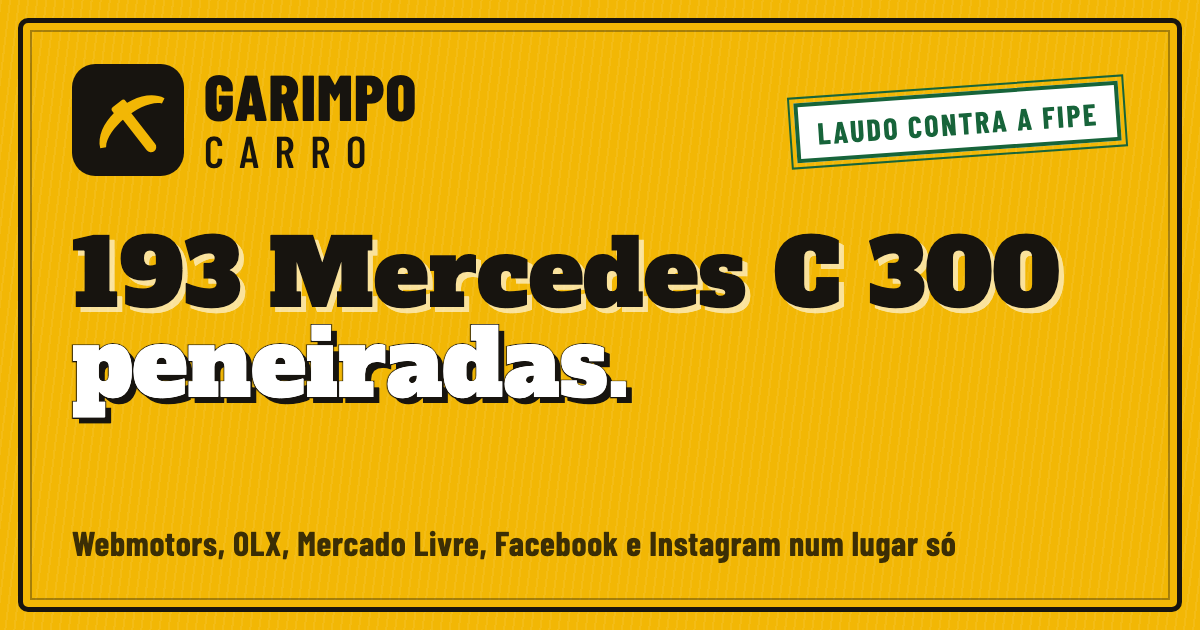
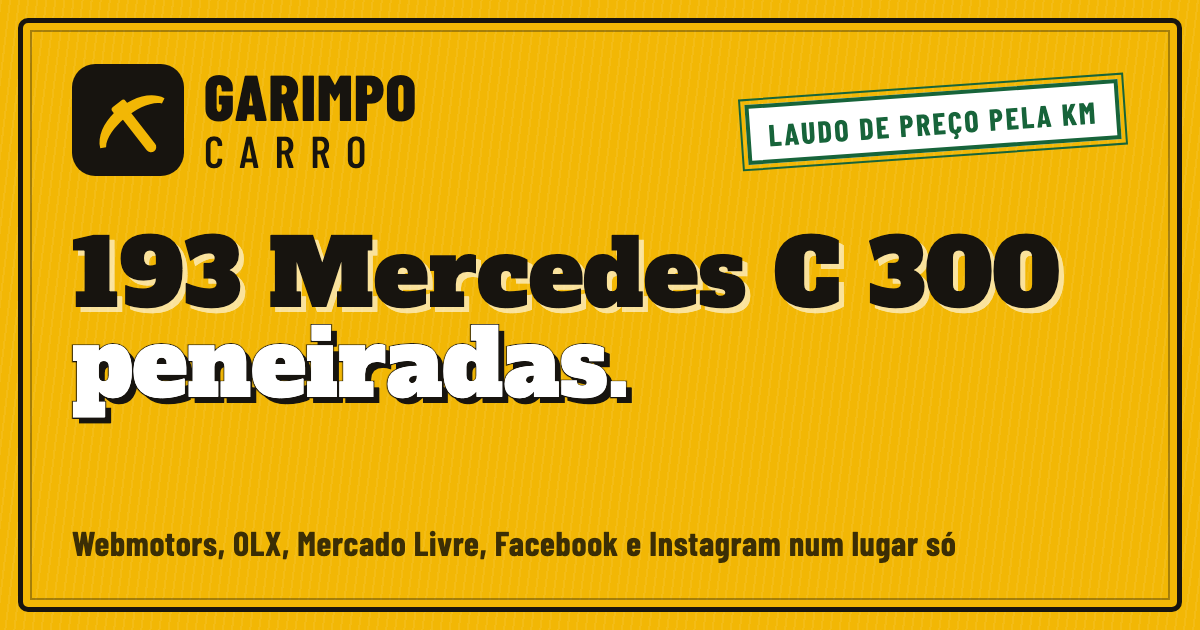
Laudo de mercado no lugar do carimbo FIPE: cada carro comparado com os do mesmo ano pela km (reta preço × km e variação normal medidas nos anúncios limpos); tabela do mercado medido no rodapé

Changed region(s): [[0.6167, 0.1206, 0.9558, 0.2714]]

diff --git a/site/app.js b/site/app.js
@@ -6,7 +6,6 @@
   const milKm = (v) => (v >= 1000 ? Math.round(v / 1000) + ' mil' : v) + ' km';
   const semAcento = (s) => String(s || '').normalize('NFD').replace(/[̀-ͯ]/g, '').toLowerCase();
   const dataBR = (iso) => iso.slice(8, 10) + '/' + iso.slice(5, 7);
-  const sobreFipe = (dif) => (dif == null ? null : Math.round(Math.abs(dif) * 100));
 
   let D = [], ULT = '';
   const PADRAO = { semLeilao: true, bl: 'todos', ano: [], uf: [], cor: [], banco: [], preco: 460000, km: 80000, cid: '', ordem: 'fipe' };
@@ -57,11 +56,13 @@
   }
   const ORDENS = {
     // preço suspeito não é o "melhor negócio": vai depois dos limpos, ainda visível
-    fipe: (a, b) => suspeito(a) - suspeito(b) || (a.dif ?? 9) - (b.dif ?? 9),
-    recentes: (a, b) => b.dt.localeCompare(a.dt) || (a.dif ?? 9) - (b.dif ?? 9),
+    // "melhor negócio" = mais abaixo do esperado para a km; os de "desconfie" vão para o fim,
+    // blindados (sem comparação justa) logo antes deles
+    fipe: (a, b) => grupo(a) - grupo(b) || margem(a) - margem(b),
+    recentes: (a, b) => b.dt.localeCompare(a.dt) || margem(a) - margem(b),
     preco: (a, b) => (a.preco || 9e9) - (b.preco || 9e9),
     km: (a, b) => (a.km || 9e9) - (b.km || 9e9),
-    ano: (a, b) => b.ano - a.ano || (a.dif ?? 9) - (b.dif ?? 9),
+    ano: (a, b) => b.ano - a.ano || margem(a) - margem(b),
   };
 
   // ── Desenho ──
@@ -101,12 +102,10 @@
 
     const pr = $('.preco', li);
     if (c.preco) pr.textContent = reais(c.preco); else { pr.textContent = 'Preço não informado'; pr.classList.add('sem'); }
-    const ca = $('.carimbo', li), p = sobreFipe(c.dif);
-    if (p == null) ca.classList.add('vazio');
-    else if (c.dif <= -0.02 && suspeito(c)) { ca.classList.add('suspeito'); ca.innerHTML = `${p}% abaixo · desconfie<small>FIPE ${c.ano}: ${reais(c.fipe)}</small>`; }
-    else if (c.dif <= -0.02) { ca.classList.add('abaixo'); ca.innerHTML = `${p}% abaixo da FIPE<small>FIPE ${c.ano}: ${reais(c.fipe)}</small>`; }
-    else if (c.dif >= 0.02) { ca.classList.add('acima'); ca.innerHTML = `${p}% acima da FIPE<small>FIPE ${c.ano}: ${reais(c.fipe)}</small>`; }
-    else { ca.classList.add('na'); ca.innerHTML = `Na FIPE<small>FIPE ${c.ano}: ${reais(c.fipe)}</small>`; }
+    const ca = $('.carimbo', li);
+    const t = textoLaudo(c);
+    if (!t) ca.classList.add('vazio');
+    else { ca.classList.add(t.k); ca.innerHTML = `${t.titulo}<small>${t.ref}</small>`; }
 
     const sites = $('.sites', li);
     const comp = $('.compartilha', li); comp.dataset.id = c.id;
@@ -128,7 +127,20 @@
     return li;
   }
   // "preço bem abaixo da média" é alerta: o carimbo não pode elogiar o mesmo carro
-  const suspeito = (c) => c.al.some((a) => a.k === 'risco' && /abaixo da m/i.test(a.t));
+  // ── Laudo: o carro contra os iguais a ele (mesmo ano, mesma km), calculado em ferramentas/gerar.py ──
+  const margem = (c) => (c.laudo && c.laudo.m != null ? c.laudo.m : 9);
+  const grupo = (c) => (!c.laudo ? 2 : c.laudo.k === 'desconfie' ? 3 : c.laudo.k === 'blindado' ? 1 : 0);
+  function textoLaudo(c) {
+    const L = c.laudo; if (!L) return null;
+    const fipe = c.fipe ? `FIPE ${c.ano}: ${reais(c.fipe)}` : '';
+    if (L.k === 'blindado') return { k: 'na', titulo: 'Blindado · sem comparação', curto: 'blindado', ref: fipe + ' (sem blindagem)' };
+    const p = Math.round(Math.abs(L.m) * 100);
+    const ref = `Esperado ${L.semkm ? '(km não informada)' : 'para a km'}: ${reais(L.esp)}` + (fipe ? ` · ${fipe}` : '');
+    if (L.k === 'desconfie') return { k: 'suspeito', titulo: `${p}% abaixo · desconfie`, curto: `${p}% abaixo do mercado (bom demais: desconfie)`, ref };
+    if (L.k === 'abaixo') return { k: 'abaixo', titulo: `${p}% abaixo do mercado`, curto: `${p}% abaixo do mercado`, ref };
+    if (L.k === 'acima') return { k: 'acima', titulo: `${p}% acima do mercado`, curto: `${p}% acima do mercado`, ref };
+    return { k: 'na', titulo: 'Preço normal para a km', curto: 'preço normal para a km', ref };
+  }
   function esc(s) { return String(s).replace(/[&<>"]/g, (m) => ({ '&': '&amp;', '<': '&lt;', '>': '&gt;', '"': '&quot;' }[m])); }
 
   let ultimoTotal = -1;
@@ -194,13 +206,13 @@
   }
 
   function pepitas() {
-    const top = D.filter((c) => !c.leilao && !c.bl && c.dif != null && c.capa && !c.al.some((a) => a.k === 'risco'))
+    const top = D.filter((c) => c.laudo && c.laudo.k === 'abaixo' && !c.leilao && c.capa && !c.al.some((a) => a.k === 'risco'))
       .sort(ORDENS.fipe).slice(0, 3);
     $('#pepitas').innerHTML = top.map((c) => `
       <li class="pepita-item"><a href="#${c.id}" data-alvo="${c.id}">
         <img src="img/${c.id}.jpg" alt="" width="64" height="48">
         <span><b>C 300 ${c.ano} · ${esc(c.cor)}</b><small>${c.km ? milKm(c.km) + ' · ' : ''}${esc(c.cid || c.uf)}${c.cid ? '/' + c.uf : ''}</small></span>
-        <span class="pp">${reais(c.preco)}<em class="carimbo abaixo">${sobreFipe(c.dif)}% abaixo da FIPE</em></span>
+        <span class="pp">${reais(c.preco)}<em class="carimbo abaixo">${Math.round(Math.abs(c.laudo.m) * 100)}% abaixo do mercado</em></span>
       </a></li>`).join('');
   }
 
@@ -218,8 +230,8 @@
   async function compartilhar(botao) {
     const c = D.find((x) => x.id === botao.dataset.id); if (!c) return;
     const url = location.origin + location.pathname + '#carro=' + c.id;
-    const p = sobreFipe(c.dif);
-    const laudo = p == null ? '' : c.dif <= -0.02 ? ` · ${p}% abaixo da FIPE` : c.dif >= 0.02 ? ` · ${p}% acima da FIPE` : ' · na FIPE';
+    const tl = textoLaudo(c);
+    const laudo = tl ? ` · ${tl.curto}` : '';
     const texto = `Mercedes C 300 ${c.ano} ${c.cor.toLowerCase()}, ${c.km ? milKm(c.km) + ', ' : ''}${c.cid || c.uf}: ${c.preco ? reais(c.preco) : 'preço não informado'}${laudo}${c.leilao ? ' (passou por leilão)' : ''}`;
     if (navigator.share) {
       try { await navigator.share({ title: 'Garimpo Carro', text: texto, url }); } catch (e) { /* a pessoa fechou o menu */ }
@@ -261,6 +273,8 @@
     document.querySelector('.ct-de').textContent = D.length;
     $('#h-data').textContent = new Date(ULT + 'T12:00').toLocaleDateString('pt-BR', { day: 'numeric', month: 'long', year: 'numeric' });
     $('#r-fipe').textContent = `código ${pacote.fipe.codigo} (${pacote.fipe.modelo}), referência de ${pacote.fipe.mes}`;
+    $('#tabela-mercado tbody').innerHTML = Object.entries(pacote.mercado || {})
+      .map(([a, v]) => `<tr><td>${a}</td><td>${v.n}</td><td>− ${reais(v.por10mil)}</td><td>± ${reais(v.variacao)}</td></tr>`).join('');
     $('#tabela-fipe tbody').innerHTML = Object.entries(pacote.fipe.anos).filter(([a]) => D.some((c) => String(c.ano) === a))
       .map(([a, v]) => `<tr><td>${a}</td><td>${reais(v)}</td></tr>`).join('');
 

diff --git a/site/index.html b/site/index.html
@@ -14,18 +14,18 @@ FORM: candidato 7 da lista (casa do garimpo / laudo de teor), staging livro de c
 <head>
 <meta charset="utf-8">
 <meta name="viewport" content="width=device-width, initial-scale=1">
-<title>Garimpo Carro — Mercedes C 300 peneiradas e comparadas com a FIPE</title>
-<meta name="description" content="As Mercedes-Benz C 300 AMG Line à venda em vários estados num lugar só, cada uma comparada com a tabela FIPE e com alerta de leilão e blindagem.">
+<title>Garimpo Carro — Mercedes C 300 peneiradas, com laudo de preço</title>
+<meta name="description" content="As Mercedes-Benz C 300 AMG Line à venda em vários estados num lugar só, cada uma comparada com o preço de mercado para a quilometragem, com alerta de leilão e blindagem.">
 <meta name="theme-color" content="#F2B705">
-<meta property="og:title" content="Garimpo Carro — C 300 peneiradas e comparadas com a FIPE">
-<meta property="og:description" content="Webmotors, OLX, Facebook, Mercado Livre, Mobiauto e Instagram num lugar só, cada carro com laudo contra a FIPE.">
+<meta property="og:title" content="Garimpo Carro — C 300 peneiradas, com laudo de preço">
+<meta property="og:description" content="Webmotors, OLX, Facebook, Mercado Livre, Mobiauto e Instagram num lugar só, cada carro com laudo de preço pela quilometragem.">
 <!-- prévia no WhatsApp: o endereço da imagem precisa ser completo. Trocar quando o domínio próprio entrar. -->
 <meta property="og:type" content="website">
 <meta property="og:url" content="https://embalagensrealfone-png.github.io/garimpo-carro/">
 <meta property="og:image" content="https://embalagensrealfone-png.github.io/garimpo-carro/compartilhar.png">
 <meta property="og:image:width" content="1200">
 <meta property="og:image:height" content="630">
-<meta property="og:image:alt" content="Garimpo Carro: Mercedes C 300 comparadas com a FIPE">
+<meta property="og:image:alt" content="Garimpo Carro: Mercedes C 300 com laudo de preço">
 <meta name="twitter:card" content="summary_large_image">
 <link rel="apple-touch-icon" href="icone-180.png">
 <link rel="icon" href="icone.svg" type="image/svg+xml">
@@ -50,13 +50,13 @@ FORM: candidato 7 da lista (casa do garimpo / laudo de teor), staging livro de c
   <div class="placa-corpo">
     <div class="letreiro-bloco">
       <h1 class="letreiro"><span id="h-total">186</span> C&nbsp;300 peneiradas em <span class="letreiro-2" id="h-onde">SP e no Sul.</span></h1>
-      <p class="placa-sub">Webmotors, OLX, Facebook, Mercado Livre, Mobiauto e Instagram num lugar só.<span class="so-grande"> O mesmo carro em vários sites aparece uma vez, e cada um vem com o laudo: quanto está da FIPE e se passou por leilão.</span></p>
+      <p class="placa-sub">Webmotors, OLX, Facebook, Mercado Livre, Mobiauto e Instagram num lugar só.<span class="so-grande"> O mesmo carro em vários sites aparece uma vez, e cada um vem com o laudo: quanto está abaixo ou acima do preço de mercado para a km dele, e se passou por leilão.</span></p>
       <p class="placa-data">Atualizado em <span id="h-data">—</span></p>
     </div>
 
     <aside class="pepitas" aria-labelledby="pepitas-t">
       <h2 id="pepitas-t" class="pepitas-t">As pepitas de hoje</h2>
-      <p class="pepitas-sub">Mais abaixo da FIPE, sem leilão, sem blindagem e sem alerta de preço.</p>
+      <p class="pepitas-sub">Mais abaixo do preço de mercado para a km, sem leilão e sem alerta de preço.</p>
       <ol id="pepitas" class="pepitas-lista"></ol>
     </aside>
   </div>
@@ -68,7 +68,7 @@ FORM: candidato 7 da lista (casa do garimpo / laudo de teor), staging livro de c
   <label class="ordem">
     <span>Ordem</span>
     <select id="ordem">
-      <option value="fipe">Melhor contra a FIPE</option>
+      <option value="fipe">Melhor negócio</option>
       <option value="recentes">Mais recentes</option>
       <option value="preco">Menor preço</option>
       <option value="km">Menor km</option>
@@ -151,7 +151,10 @@ FORM: candidato 7 da lista (casa do garimpo / laudo de teor), staging livro de c
   <div class="rodape-grade">
     <section>
       <h2>Como o laudo é feito</h2>
-      <p>O preço pedido no anúncio é comparado com a tabela FIPE do mesmo ano de modelo, <span id="r-fipe">—</span>. Acima de 2% de diferença, o carimbo diz quanto. "Preço bem abaixo da média" é alerta, não elogio: carro muito barato pede vistoria cautelar antes de qualquer conversa.</p>
+      <p>A tabela FIPE não olha a quilometragem, então ela sozinha engana: uma C 300 com 60 mil km "abaixo da FIPE" pode estar só no preço normal do uso. Por isso cada carro é comparado com os iguais a ele: para cada ano, medimos nos anúncios sem leilão, blindagem ou alerta quanto o preço cai a cada 10 mil km e quanto ele varia normalmente.</p>
+      <p>Dentro da variação normal, o carimbo diz "preço normal para a km". Abaixo dela, "abaixo do mercado". Muito abaixo, mais que o dobro da variação, vira "desconfie": carro barato demais pede vistoria cautelar antes de qualquer conversa. Blindado não entra na conta, porque a blindagem muda o preço. É preço pedido, não de venda, e a conta é refeita a cada atualização.</p>
+      <table class="tabela-fipe" id="tabela-mercado"><caption>O mercado medido</caption><thead><tr><th scope="col">Ano</th><th scope="col">Carros</th><th scope="col">Cada 10 mil km</th><th scope="col">Variação normal</th></tr></thead><tbody></tbody></table>
+      <p class="rodape-fipe">FIPE de referência, <span id="r-fipe">—</span>:</p>
       <table class="tabela-fipe" id="tabela-fipe"><caption>FIPE de referência</caption><thead><tr><th scope="col">Ano</th><th scope="col">Valor</th></tr></thead><tbody></tbody></table>
     </section>
     <section>

diff --git a/marca/capa-compartilhar.html b/marca/capa-compartilhar.html
@@ -16,5 +16,5 @@ p{position:absolute;left:72px;bottom:66px;margin:0;font:700 34px/1.2 'Barlow Con
 <div class="marca"><svg width="112" height="112" viewBox="0 0 96 96"><rect width="96" height="96" rx="20" fill="#17140F"/><g transform="translate(48,46) scale(.76)" fill="#F2B705"><g transform="rotate(-38)"><rect x="-6" y="-14" width="12" height="62" rx="6"/><path d="M-46 8 C-32 -22 32 -22 46 8 L40 11 C26 -6 -26 -6 -40 11 Z"/><rect x="-9.5" y="-20" width="19" height="17" rx="3.5"/></g></g></svg><div><b>GARIMPO</b><span>CARRO</span></div></div>
 <h1>193 Mercedes C 300 <em>peneiradas.</em></h1>
 <p>Webmotors, OLX, Mercado Livre, Facebook e Instagram num lugar só</p>
-<div class="carimbo">Laudo contra a FIPE</div>
+<div class="carimbo">Laudo de preço pela km</div>
 </body></html>

diff --git a/site/estilo.css b/site/estilo.css
@@ -337,3 +337,4 @@ input[type=range] { width: 100%; accent-color: var(--tinta); height: 28px; margi
 @media (prefers-reduced-motion: reduce) {
   *, *::before, *::after { animation: none !important; transition: none !important; }
 }
+.rodape-fipe { margin-top: 20px !important; font-size: .9rem; color: #B9B2A4 !important; }

diff --git a/ferramentas/gerar.py b/ferramentas/gerar.py
@@ -21,7 +21,9 @@ img_dest = raiz / 'site/img'; img_dest.mkdir(parents=True, exist_ok=True)
 for c in carros:
     ref = fipe['anos'].get(str(c['ano']))
     dif = round(c['preco'] / ref - 1, 4) if (ref and c['preco']) else None
-    alertas = [{'t': a, 'k': tipo(a)} for a in c['al']]
+    # "Preço bem abaixo da média do ano" era o alerta à mão da época em que a conta ignorava a km.
+    # Quem decide isso agora é o laudo de mercado, lá embaixo; manter os dois daria vereditos opostos.
+    alertas = [{'t': a, 'k': tipo(a)} for a in c['al'] if 'bem abaixo da média' not in a.lower()]
     saida.append({
         'id': c['id'], 'ano': c['ano'], 'fab': c['fab'], 'cor': c['cor'], 'banco': c['banco'],
         'preco': c['preco'], 'km': c['km'], 'cid': c['cid'], 'uf': c['uf'], 'bl': c['bl'],
@@ -36,7 +38,40 @@ for c in carros:
     if c['capa']:
         shutil.copyfile(raiz / f"dados/capas-originais/{c['id']}.jpg", img_dest / f"{c['id']}.jpg")
 
+# ── Laudo de mercado ──────────────────────────────────────────────────────────
+# A FIPE não olha a quilometragem: uma 2024 com 60 mil km "8% abaixo da FIPE" é só o desconto
+# normal do uso. Aqui o carro é comparado com os iguais a ele: para cada ano, uma reta
+# preço × km medida nos anúncios limpos (sem leilão, blindagem nem alerta de risco).
+# "Variação normal" = desvio típico dos anúncios em torno da reta, medido, não chutado.
+import statistics as st
+def limpo(c): return c['preco'] and c['km'] and not c['bl'] and not c['leilao'] and not any(a['k'] == 'risco' for a in c['al'])
+modelo = {}
+for ano in sorted({c['ano'] for c in saida}):
+    g = [c for c in saida if c['ano'] == ano and limpo(c)]
+    if len(g) < 8: continue  # pouca amostra: melhor não dar laudo do que dar laudo errado
+    x = [c['km'] for c in g]; y = [c['preco'] for c in g]
+    mx, my = st.mean(x), st.mean(y)
+    b = sum((k - mx) * (p - my) for k, p in zip(x, y)) / sum((k - mx) ** 2 for k in x)
+    b = min(b, 0.0)  # km a mais nunca encarece o carro; se a amostra disser isso, é ruído
+    a0 = my - b * mx
+    sd = st.pstdev([p - (a0 + b * k) for k, p in zip(x, y)])
+    modelo[ano] = {'a': a0, 'b': b, 'sd': sd, 'n': len(g), 'km_med': st.median(x)}
+
+for c in saida:
+    m = modelo.get(c['ano'])
+    c['laudo'] = None
+    if not c['preco'] or not m: continue
+    if c['bl']:
+        c['laudo'] = {'k': 'blindado'}; continue
+    km = c['km'] or m['km_med']
+    esp = m['a'] + m['b'] * km
+    z = (c['preco'] - esp) / m['sd']
+    k = 'desconfie' if z <= -2 else 'abaixo' if z <= -1 else 'acima' if z >= 1 else 'normal'
+    c['laudo'] = {'k': k, 'esp': round(esp, -2), 'm': round(c['preco'] / esp - 1, 4), 'z': round(z, 2), 'semkm': not c['km']}
+
 pacote = {'fipe': {k: fipe[k] for k in ('codigo', 'modelo', 'mes', 'anos')},
-          'atualizado': max(c['dt'] for c in saida), 'carros': saida}
+          'atualizado': max(c['dt'] for c in saida),
+          'mercado': {str(a): {'n': v['n'], 'por10mil': round(-v['b'] * 10000, -2), 'variacao': round(v['sd'], -2)} for a, v in modelo.items()},
+          'carros': saida}
 (raiz / 'site/dados.json').write_text(json.dumps(pacote, ensure_ascii=False, separators=(',', ':')))
 print(len(saida), 'carros →', (raiz / 'site/dados.json').stat().st_size // 1024, 'KB')

diff --git a/DESIGN.md b/DESIGN.md
@@ -96,9 +96,12 @@ Cantos de placa: 3px. O carimbo é um retângulo com borda dupla, girado -2°.
 
 ## Components
 - **Linha do livro**: foto pequena (4:3) | carro + local + alertas | preço + carimbo FIPE + botões.
-- **Carimbo FIPE**: "10% ABAIXO DA FIPE" (verde), "NA FIPE" (tinta), "6% ACIMA" (tinta-2),
-  "X% ABAIXO · DESCONFIE" (risco) quando o carro tem alerta de preço bem abaixo da média.
-  Entra carimbando uma vez (gira e assenta). Também aparece nas pepitas, em tamanho compacto.
+- **Carimbo de mercado** (desde 23/11/2026, no lugar do carimbo FIPE): compara com os iguais —
+  mesmo ano, reta preço × km medida nos anúncios limpos (`ferramentas/gerar.py`).
+  "X% ABAIXO DO MERCADO" (verde, abaixo de 1 variação), "PREÇO NORMAL PARA A KM" (tinta),
+  "X% ACIMA DO MERCADO" (tinta-2), "X% ABAIXO · DESCONFIE" (risco, abaixo de 2 variações),
+  "BLINDADO · SEM COMPARAÇÃO". Linha pequena: esperado para a km e a FIPE de referência.
+  Entra carimbando uma vez. Também aparece nas pepitas, em tamanho compacto.
 - **Botão de anúncio**: placa preta com letra ouro, um por site; reposts no mesmo site viram
   chips numerados (2, 3) em papel.
 
